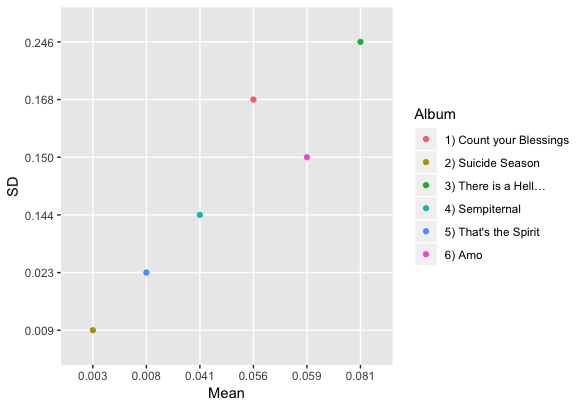
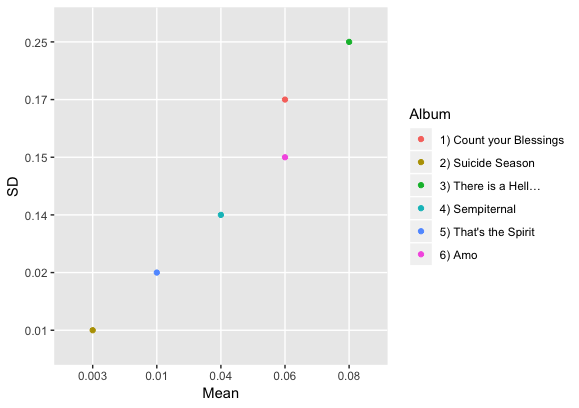
Explanations for pictures

diff --git a/README.md b/README.md
@@ -4,14 +4,14 @@
 
 The rock/metal band Bring Me The Horizon released their sixth album *amo* on the 25th of January 2019. The reaction on the new album is divided. The sound of this album is totally different than fans are used to hearing from them. It feels like they are stepping out of their 'heavy metal' image and taking on a new one. One song called 'heavy metal' of Bring Me The Horizon's new album talks about their change in genre and the reaction of their fans:
 
-*"And I keep picking petals
-I'm afraid you don't love me anymore
-'Cause a kid on the 'gram in a Black Dahlia tank
+*"And I keep picking petals/
+I'm afraid you don't love me anymore/
+'Cause a kid on the 'gram in a Black Dahlia tank/
 Says it ain't heavy metal"*
 
 I want to know if their new album is really that different from the other albums and what the difference is exactly. Is it true that they are changing their image and what are they changing it to? My research question is therefore: Is Bring Me The Horizon creating a new musical image and what is this image exactly?
 
-## Methode
+## Method
 
 To anwer my research question I'm using a handfull of different Spofity playlists to compare their features. My main corpus is obviously Bring Me The Horizon's newest album *amo*. Besides that I'm also looking into all their old albums: *Count Your Blessings*, *Suidice Season*, *There is a Hell Believe Me I've Seen it. There is a Heaven Let's Keep it a Secret*, *Sempiternal* and *That's the Spirit*. To get the Spotify features for the albums, I've make seperate playlist for each. With the help of these albums I can compare the new album to their old ones and see if there are differences and similarities. I'm not only doing this between albums, but also with genres. I'm using different Spotify playlists to compare them to the albums and see which genre fits the best per album. The playlist I'm using for this are: Rock Classics, Pure Pop Punk, Heavy Metal, Pop Internacional and Ultimate Indie. By using the Bring Me The Horizon albums and the genre playlist, I hope to answer my research question. 
 
@@ -19,9 +19,13 @@ To anwer my research question I'm using a handfull of different Spofity playlist
 
 ### Acousticness 
 
+For Spotify 'Acousticness' means if a track is acoustic and is calcultated on a scale from 0 to 1, one having a high confidence that the track is acoustic. As seen in the graph below, there is a lot of difference between the acousticness of the different albums. The second album *Suicide Season* scores the lowest (M = 0.003 and SD = 0.01) and the third album *There is a Hell...* has the highest score (M = 0.08 and SD = 0.25). Further there is no 'logical' order of the rest of the albums, so newer and older albums not arranged in order. 
+
 ![AcousticAlbums](acousticalbums.png)
 
 ### Danceability
+
+Unlike acousticness, danceability has some interessting results regarding their scoring order. Here *There is a Hell...* scores the lowest(M = 0.27 and SD = 0.11), while the newest album *Amo* has the highest mean (M = 0.52 and SD = 0.12). What is interessting with this feature is the difference in mean between an album and the next one. Between the first and the third album there is a difference of 0.04 in mean and 0.02 in the standard deviation. When looking at the newer albums, between the fourth and the sixth there is a difference of 0.15 for the mean (and 0.02 for SD). The difference is almost four times as big, so the danceability in the later albums have increased a lot in comparison with the older albums. 
 
 ![DanceAlbums](dancealbums.png)
 
@@ -43,10 +47,21 @@ To anwer my research question I'm using a handfull of different Spofity playlist
 
 ### Valence
 
+With valence the albums are arranged in the exact same order as they did for danceability. The third album bottom and the newest on top. The difference between those two albums are way bigger than for danceability. Here the lowest score is 0.09 (for the mean and 0.06 for SD) and the highest has a mean of 0.40 (and a SD of 0.17). Spotify describes valence as the positiveness conveyed by a track, where the higher the score the more positive (e.g. happy, cheerful, euphoric) it is. Because of this we can say that the new album *amo* is definately more positive, but in comparison to the whole scale of valence all the albums are on the negative (e.g. sad, depressed, angry) side. Therefore the feeling of the songs throughout different have not changed dramatically, although it has become more positive over the years. 
+
 ![ValenceAlbums](valencealbums.png)
 
 ## Genre Features 
 
+### Heavy Metal
+
+### Indie
+
+### Pop
+
+### Pop Punk
+
+### Rock
 
 
 
